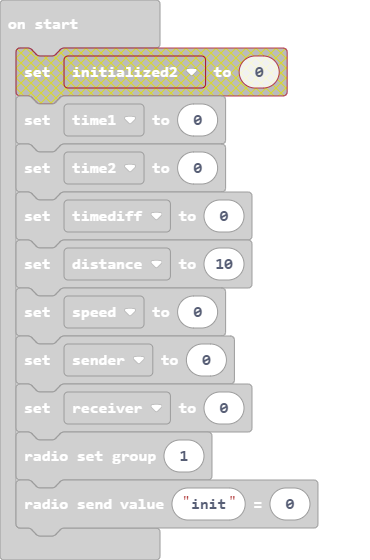
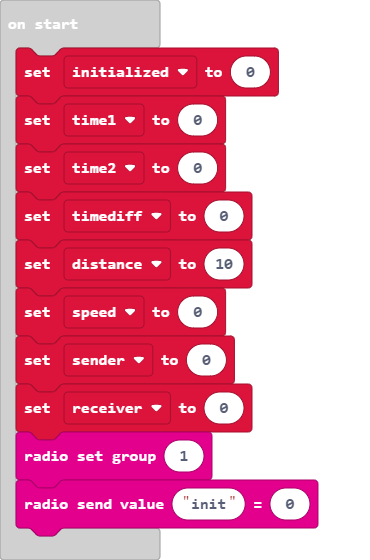
Initialized variable

diff --git a/main.ts b/main.ts
@@ -15,7 +15,6 @@ radio.onReceivedValue(function (name, value) {
 })
 let prior_light = 0
 let current_light = 0
-let initialized = 0
 let receiver = 0
 let sender = 0
 let speed = 0
@@ -23,6 +22,8 @@ let distance = 0
 let timediff = 0
 let time2 = 0
 let time1 = 0
+let initialized = 0
+initialized = 0
 time1 = 0
 time2 = 0
 timediff = 0
